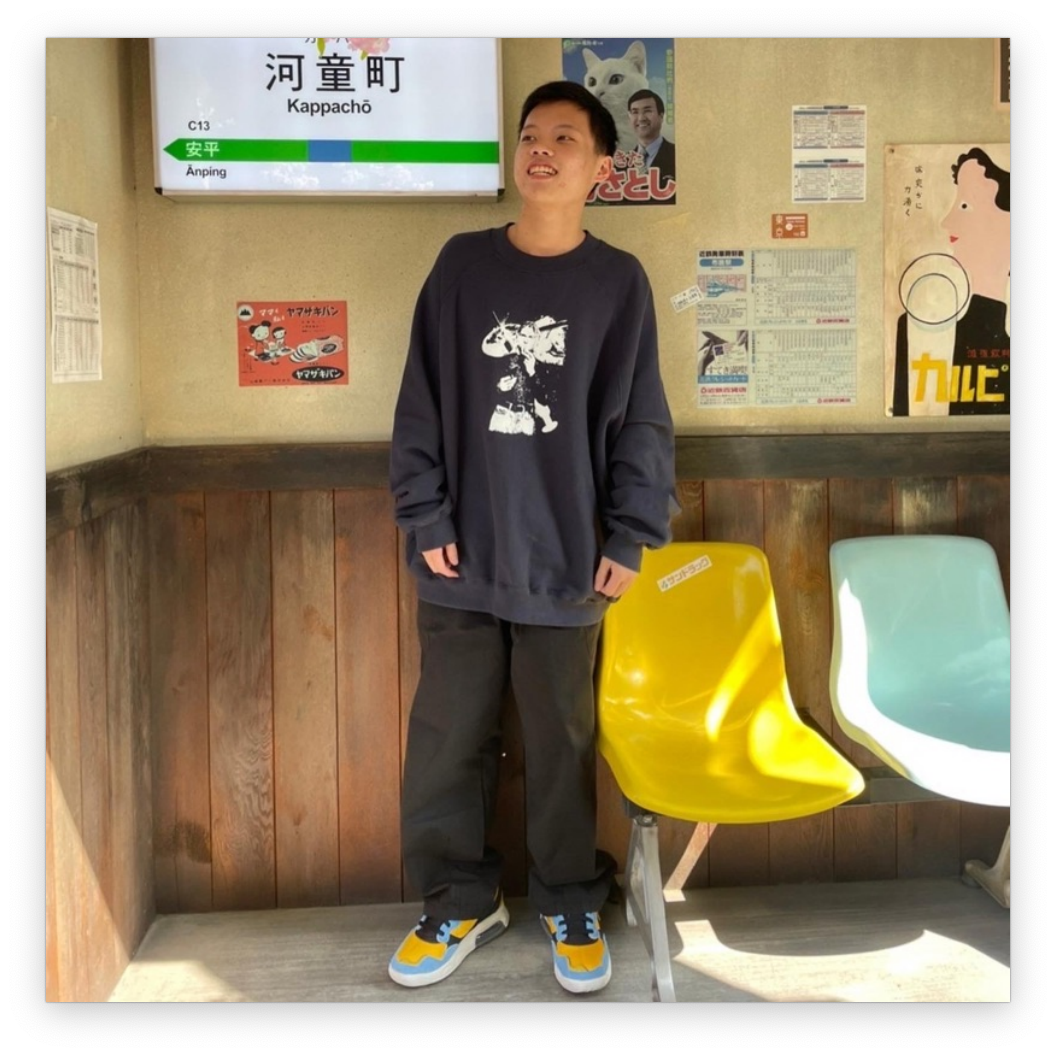
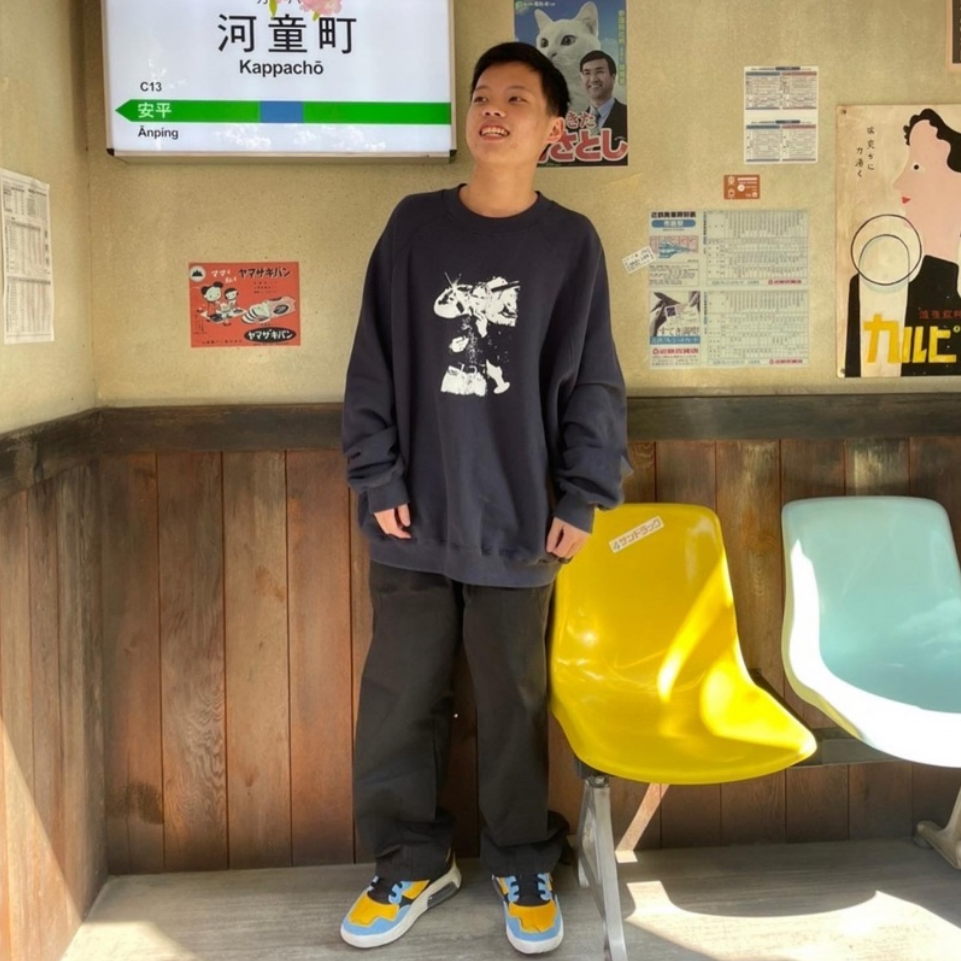
contact image and layout modified

diff --git a/sections/home/contact.php b/sections/home/contact.php
@@ -2,8 +2,30 @@
     #contact {
         background-color: #000;
     }
+    #contact .sub_container {
+        width: 60% !important;
+    }
+    #contact .member {
+        overflow: hidden; */
+        border-radius: unset !important;
+        background: unset !important;
+        box-shadow: unset !important;
+    }
     #contact .member-info * {
-        color: #000 !important;
+        *color: #000 !important;
+    }
+    #contact .contact_img {
+        border-radius: 100%;
+        border: rgb(70, 249, 253) solid 6px;
+        width: 70%;
+    }
+    @media screen and (max-width: 768px) {
+        #contact .sub_container {
+            flex-direction: column;
+        }
+        #contact .member_parent {
+            width: 100% !important;
+        }
     }
 </style>
 
@@ -14,27 +36,31 @@
             <h2>聯絡我們</h2>
             <p>專展總籌</p>
         </div>
-        <div class="row justify-content-center">
-            <div class="col-lg-3 col-md-6 d-flex align-items-stretch">
-                <div class="member" data-aos="" data-aos-delay="100">
-                    <div class="member-img"> <img src="assets/img/contact/William_Chang.png" class="img-fluid" alt="" loading="lazy">
-                        <div class="social hider"> <a href="#tel:"><i class="bi bi-phone-fill"></i></a> <a href="https://www.instagram.com/" target="_blank"><i class="bi bi-instagram"></i></a> </div>
+        <center>
+            <div class="sub_container row justify-content-center">
+                <div class="member_parent col-sm-6 col-12 d-flex align-items-stretch justify-content-center">
+                    <div class="member">
+                        <div class="member-img d-flex justify-content-center">
+                            <img src="assets/img/contact/William_Chang.png" class="img-fluid contact_img" alt="" loading="lazy">
+                        </div>
+                        <div class="member-info">
+                            <h3>張子濰</h3>
+                            <span><a href="mailto:tzuwei0116@gmail.com" target="_blank">tzuwei0116@gmail.com</a></span> 
+                        </div>
                     </div>
-                    <div class="member-info">
-                        <h3>張子濰</h3>
-                        <span><a href="mailto:tzuwei0116@gmail.com" target="_blank">tzuwei0116@gmail.com</a></span> </div>
+                </div>
+                <div class="member_parent col-sm-6 col-12 d-flex align-items-stretch justify-content-center">
+                    <div class="member">
+                        <div class="member-img d-flex justify-content-center">
+                            <img src="assets/img/contact/Stefan_Lee.png" class="img-fluid contact_img" alt="" loading="lazy">
+                        </div>
+                        <div class="member-info">
+                            <h3>李軒騰</h3>
+                            <span><a href="mailto:stefanlee1221@gmail.com" target="_blank">stefanlee1221@gmail.com</a></span> 
+                        </div>
+                    </div>
                 </div>
             </div>
-            <div class="col-lg-3 col-md-6 d-flex align-items-stretch">
-                <div class="member" data-aos="" data-aos-delay="100">
-                    <div class="member-img"> <img src="assets/img/contact/Stefan_Lee.png" class="img-fluid" alt="" loading="lazy">
-                        <div class="social hider"> <a href="#tel:"><i class="bi bi-phone-fill"></i></a> <a href="https://www.instagram.com/" target="_blank"><i class="bi bi-instagram"></i></a> </div>
-                    </div>
-                    <div class="member-info">
-                        <h3>李軒騰</h3>
-                        <span><a href="mailto:stefanlee1221@gmail.com" target="_blank">stefanlee1221@gmail.com</a></span> </div>
-                </div>
-            </div>
-        </div>
+        </center>
     </div>
 </section>
